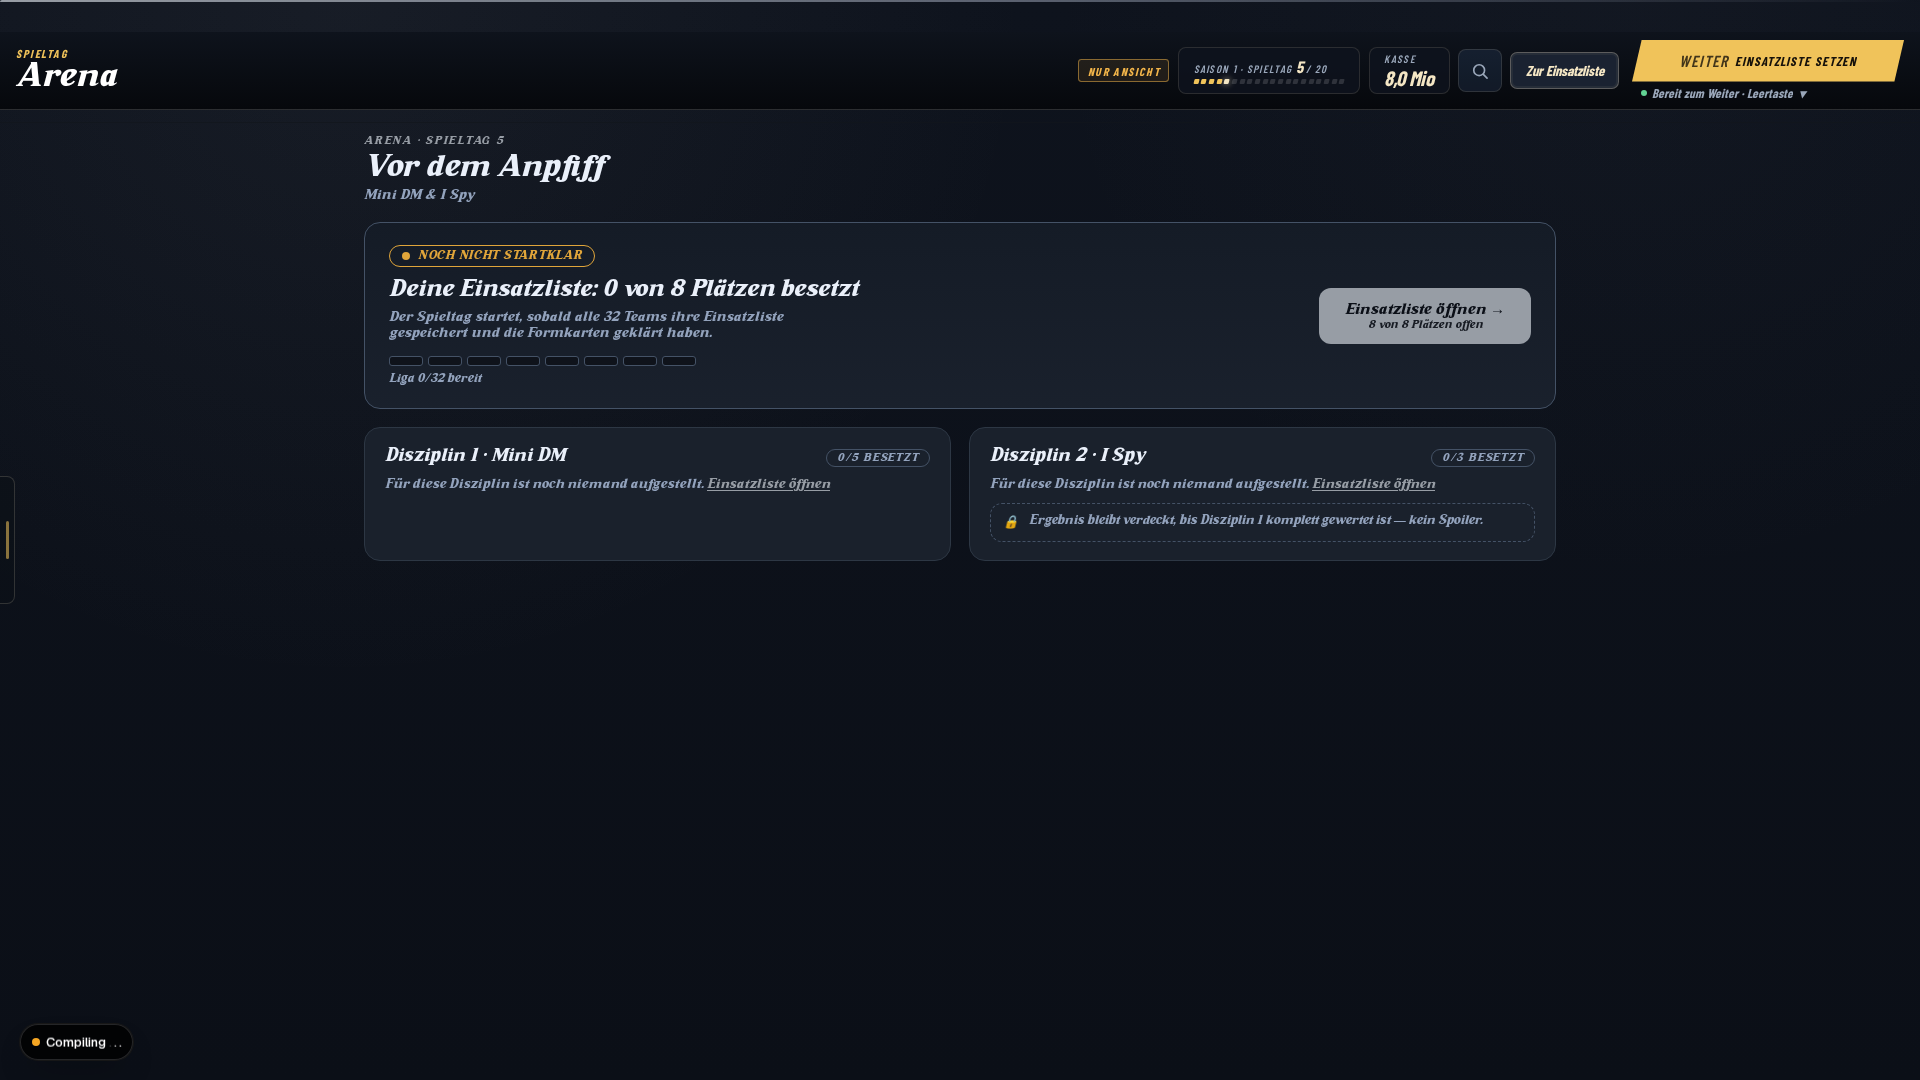
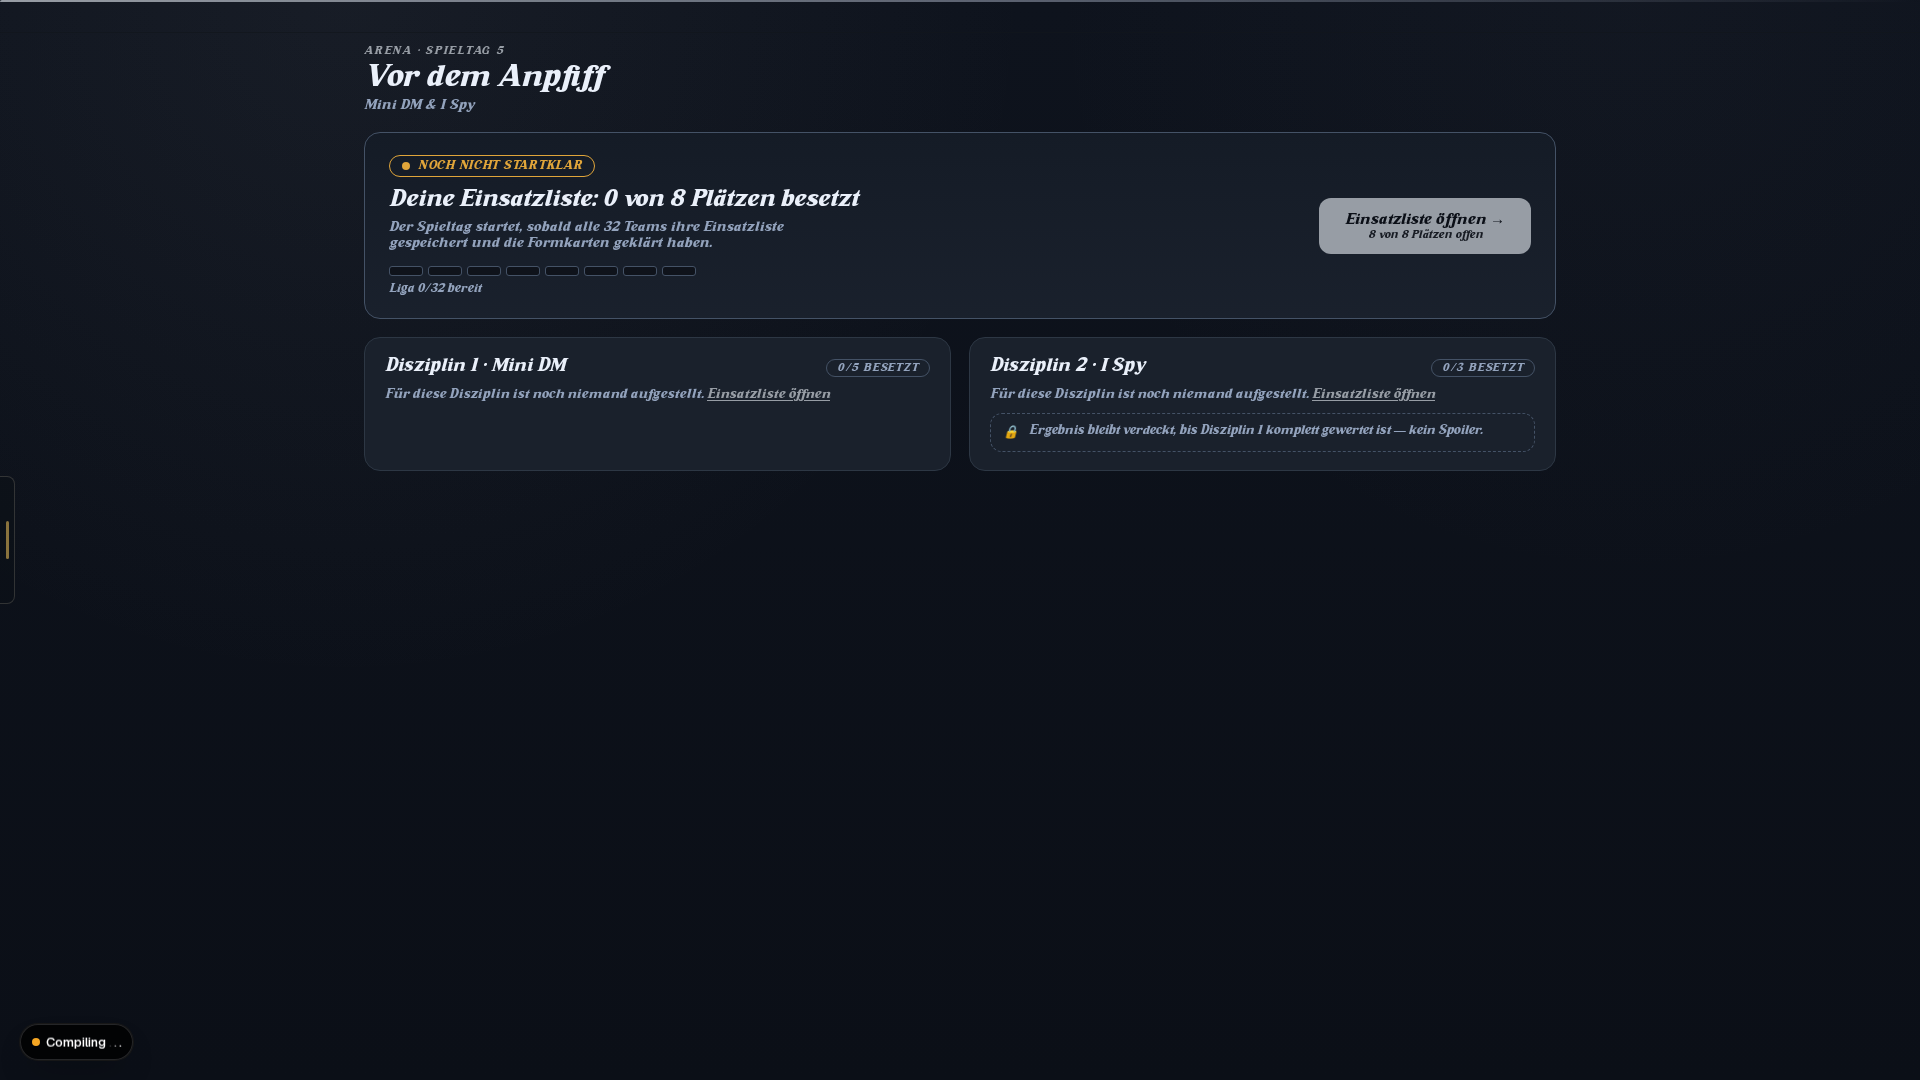
Rahmen: Vollbild nur bei laufender Buehne, Abgleich-Bilder und Doku
Claude-Session: https://claude.ai/code/session_01UYLNtXkprKr1XK4c3X2xQq

diff --git a/app/foundation/shell/FoundationShell.tsx b/app/foundation/shell/FoundationShell.tsx
@@ -150,13 +150,27 @@ export default function FoundationShell({
     }
     return undefined;
   }, [activeView]);
-  const arenaVoll = istArena && !arenaRahmen;
+  // Vollbild nur, wenn die Bühne wirklich läuft (Leinwand/Iframe im Arena-Container). Die Seite „Vor dem
+  // Anpfiff“ (Einsatzliste unvollständig) behält Band und Schiene, sonst käme man nirgends mehr hin.
+  const [buehneDa, setBuehneDa] = useState(false);
+  useEffect(() => {
+    if (!istArena) {
+      setBuehneDa(false);
+      return undefined;
+    }
+    const pruefe = () => setBuehneDa(Boolean(document.querySelector("#foundation-matchday-arena canvas, #foundation-matchday-arena iframe")));
+    pruefe();
+    const beobachter = new MutationObserver(pruefe);
+    beobachter.observe(document.body, { childList: true, subtree: true });
+    return () => beobachter.disconnect();
+  }, [istArena]);
+  const arenaVoll = istArena && !arenaRahmen && buehneDa;
   const verlasseArena = useCallback(() => {
     const ziel = vorherigeAnsicht.current && vorherigeAnsicht.current !== "matchdayArena" ? vorherigeAnsicht.current : "homeV2";
     onNavigate(ziel);
   }, [onNavigate]);
   useEffect(() => {
-    if (!istArena) return undefined;
+    if (!istArena || (!arenaVoll && !arenaRahmen)) return undefined;
     const onKey = (event: KeyboardEvent) => {
       const el = event.target as HTMLElement | null;
       if (el && (el.isContentEditable || /^(INPUT|TEXTAREA|SELECT)$/.test(el.tagName))) return;
@@ -171,7 +185,7 @@ export default function FoundationShell({
     };
     window.addEventListener("keydown", onKey);
     return () => window.removeEventListener("keydown", onKey);
-  }, [istArena, arenaRahmen, verlasseArena]);
+  }, [istArena, arenaVoll, arenaRahmen, verlasseArena]);
 
   const spieltag = typeof currentMatchday === "number" && Number.isFinite(currentMatchday) ? currentMatchday : null;
   const saisonNr = seasonLabel?.match(/Season (\d+)/i)?.[1] ?? null;

diff --git a/docs/design/app-rahmen-bau-abgleich-18-11.md b/docs/design/app-rahmen-bau-abgleich-18-11.md
@@ -55,5 +55,14 @@ Wertung nicht berührt (reine Rahmen-Änderung).
 
 ## Bilder
 
-Siehe `docs/design/app-rahmen-bau-18-11/` (`app-<ansicht>-<breite>x<höhe>.png`). Abgleich links App / rechts Mockup:
-`docs/design/app-rahmen-bau-18-11/abgleich-*.png` (soweit aufgenommen).
+`docs/design/app-rahmen-bau-18-11/`: `abgleich-saisonstand|einsatzliste|start-1920x1080.png` (links App, rechts Mockup),
+`app-saisonstand-1920x1080|2560x1440|1710x1112`, `app-einsatzliste-1920x1080|2560x1440`, `app-start-1920x1080`,
+`app-takt-ablauf-1920x1080` (Taktgeber mit Ablauf), `app-schiene-hover-1920x1080`, `app-office-1920x1080`,
+`app-arena-vollbild-1920x1080`.
+
+Lücken der Aufnahme (Rechner voll, Chromium stürzte mehrfach ab): 1710-Aufnahmen nur Saisonstand, 2560 nur
+Saisonstand und Einsatzliste; Taktgeber-Zustände „läuft“ und „zu“ nicht im Bild (nur „bereit zum Weiter“); die
+Arena-Aufnahme zeigt „Vor dem Anpfiff“ (Wegwerf-Save ohne Einsatzliste) – Vollbild mit laufender Bühne ist nicht
+bebildert. Der Vollbild-Schalter greift deshalb nur, wenn im Arena-Container eine Leinwand/ein Iframe steht
+(`MutationObserver` in `FoundationShell`); „Vor dem Anpfiff“ behält Band und Schiene. Das Bild
+`app-arena-vollbild-1920x1080.png` stammt von einem Zwischenstand (Band ausgeblendet, Seite ohne Bühne).
